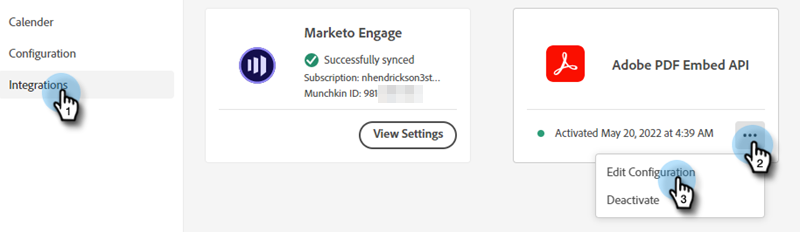
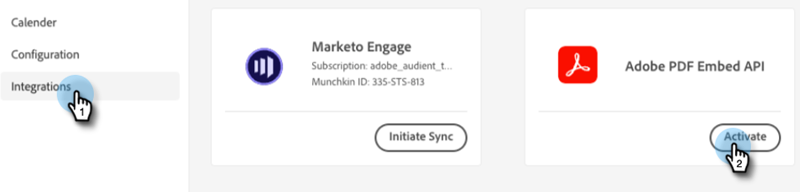
update

diff --git a/help/marketo/product-docs/demand-generation/dynamic-chat/dialogues/using-the-document-card.md b/help/marketo/product-docs/demand-generation/dynamic-chat/dialogues/using-the-document-card.md
@@ -29,7 +29,7 @@ The Document card allows you to embed PDF documents in Dialogues and track docum
 
    ![](assets/using-the-document-card-4.png)
 
-1. Back in Dynamic Chat, click **Integrations**. Click the dota under Adobe PDF Embed API and select **Edit Configuration**.
+1. Back in Dynamic Chat, click **Integrations**. In the Adobe PDF Embed API card, click **Activate**.
 
    ![](assets/using-the-document-card-5.png)
 
